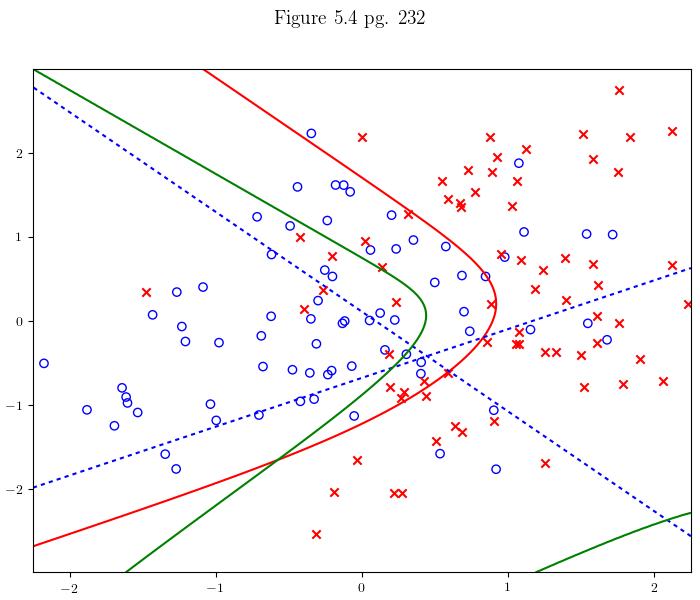
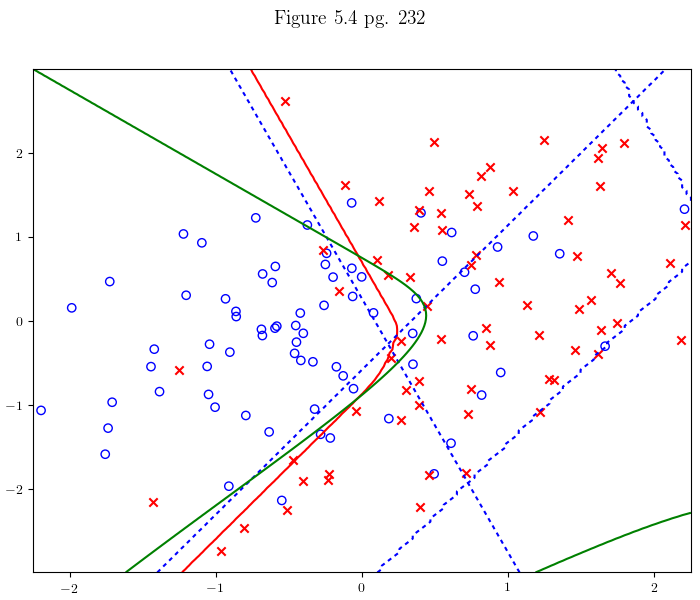
Figure 5.3 Added and 5.4 Update
-Added polynomial fitting NN example
-Updated classification example (5.4)  to include sigmoid output functions and use PyTorch's cross entropy loss function.
-Figure updates
-Minor documentation update for figure 5.21

diff --git a/Chp5/fig5-3.py b/Chp5/fig5-3.py
@@ -1,7 +1,7 @@
 '''
 Nicholas Geneva
 ngeneva@nd.edu
-August 11, 2017
+August 25, 2017
 '''
 import sys
 
@@ -28,7 +28,6 @@ class BabyNet(th.nn.Module):
         self.linear1 = th.nn.Linear(D_in, H)
         self.f1 = th.nn.Tanh()
         self.linear2 = th.nn.Linear(H, D_out)
-        self.f2 = th.nn.Sigmoid()
 
     def forward(self, x):
         """
@@ -39,7 +38,7 @@ class BabyNet(th.nn.Module):
             out (th.DoubleTensor): [N x D_out] matrix of neural network outputs
         """
         lin1 = self.f1(self.linear1(x))
-        out = self.f2(self.linear2(lin1))
+        out = self.linear2(lin1)
         return out
 
     def hiddenForward(self, x):
@@ -70,9 +69,7 @@ class simpleNN():
 
         self.H = H
         self.lr = learning_rate
-        #Input: (N,C) where C = number of classes
-        #Target: Long(N) where each value is 0 <= targets[i] <= C-1
-        self.loss_fn = th.nn.CrossEntropyLoss(size_average=False)
+        self.loss_fn = th.nn.MSELoss(size_average=False)
     
     def trainNN(self, x_train, y_train, err_limit):
         """
@@ -97,7 +94,7 @@ class simpleNN():
             y_pred = self.model(x_t) #__call__()
 
             #Now lets compute out loss
-            loss = self.loss_fn(y_pred, y_t.long())
+            loss = self.loss_fn(y_pred, y_t)
             err = loss.data
             print(idx,err)
 
@@ -156,66 +153,32 @@ class simpleNN():
         loss = self.loss_fn(t_pred, t_test)
         return loss
 
-def generate2ClassData(N):
-    """Generates a set of synthetic data classification data discribed in Appendix A
+def generateTrainingData(N, std, func='para'):
+    """Generates a set of training data for several abitrary functions
     Args:
         N (Int) = Number of points in each class
+        std (Int) = standard deviation of the Y noise added to the data
+        func (String) = training function of choice (parabolic, sine, etc.)
     Returns:
-        X (th.DoubleTensor) = [2*N x 2] matrix of X and Y coords of target points
-        T (th.DoubleTensor) = [2*N x 2] matrix of binary classification target vectors
+        X (th.DoubleTensor) = [N] matrix of X and Y coords of target points
+        T (th.DoubleTensor) = [N] matrix of binary classification target vectors
     """
-    X_data = th.DoubleTensor(2*N, 2)
-    T_data = th.DoubleTensor(2*N, 2).zero_()
-
-    #Generate class 1 coordinates
-    mean = [-.25, 0]
-    covar = [[1.0, 1.0], [0, 1.0]] #variance
-    X_data[:N,:] = th.FloatTensor(np.random.multivariate_normal(mean, covar, N))
-
-    #Generate class 2 coordinates
-    mean = [1.0, -0.75]
-    covar = [[1, .8], [.8, 1]]  # diagonal covariance
-    mean2 = [1.0, 1]
-    covar2 = [[1.0, 1.0], [0, 1.0]]  # diagonal covariance
-    n = int(np.random.normal(N/2.0,5)) #Number of points from guassian 1
-    X_data[N:N+n,:] = th.FloatTensor(np.random.multivariate_normal(mean, covar, n))
-    X_data[N+n:,:] = th.FloatTensor(np.random.multivariate_normal(mean2, covar2, N-n))
-
-    #Target vector creation
-    T_data[:N, 0] = 1
-    T_data[N:, 1] = 1
+    X_data = th.linspace(-1,1,N).unsqueeze(1).type(th.DoubleTensor)
+    if(func == 'para'):
+        mu = X_data.pow(2)
+    elif(func == 'sine'):
+        mu = th.sin(np.pi*X_data)
+    elif(func == 'abs'):
+        mu = th.abs(X_data)
+    else:
+        mu = X_data > 0
+    
+    if(std > 0):
+        T_data = th.normal(mu,std).type(th.DoubleTensor)
+    else:
+        T_data = mu.type(th.DoubleTensor)
 
     return X_data, T_data
-
-def plotIdealFit(ax, xlim, ylim):
-    """Generates a set of synthetic data classification data discribed in Appendix A
-    Args:
-        N (Int) = Number of points in each class
-    Returns:
-        X (th.DoubleTensor) = [2*N x 2] matrix of X and Y coords of target points
-        T (th.DoubleTensor) = [2*N x 2] matrix of binary classification target vectors
-    """
-    x = np.linspace(xlim[0],xlim[1],150)
-    y = np.linspace(ylim[0],ylim[1],150)
-    X, Y = np.meshgrid(x, y)
-    Z = np.zeros(X.shape)
-    #Class 1
-    mean0 = [-.25, 0]
-    cov0 = [[1.0, 1.0], [0, 1.0]]
-    #Class 2
-    mean = [1.0, -0.75]
-    cov = [[1, .8], [.8, 1]]
-    mean2 = [0.75, 1]
-    cov2 = [[1.0, 1.0], [0, 1.0]]
-    
-    for (i,j), val in np.ndenumerate(X):
-        x = np.array([[X[i,j], Y[i,j]]])
-        Z[i,j] = -5*np.exp(-0.5*(x-mean0).dot(inv(cov0)).dot((x-mean0).T)) + \
-            5*np.exp(-0.5*(x-mean).dot(inv(cov)).dot((x-mean).T)) + \
-            5*np.exp(-0.5*(x-mean2).dot(inv(cov2)).dot((x-mean2).T))
-
-    #ax.contourf(X, Y, Z, 10)
-    ax.contour(X, Y, Z, levels = [-5,0,5], colors='g', linewidth=0.5)
 
 if __name__ == '__main__':
     plt.close('all')
@@ -223,63 +186,86 @@ if __name__ == '__main__':
     rc('text', usetex=True)
 
     #Set up subplots
-    f, ax = plt.subplots(1, 1, figsize=(7, 6))
-    f.suptitle('Figure 5.4 pg. 232', fontsize=14)
+    f, ax = plt.subplots(2, 2, figsize=(7, 6))
+    f.suptitle('Figure 5.3 pg. 231', fontsize=14)
     xlim, ylim = [-2.25,2.25], [-3,3]
 
-    N = 75 #Number of points in each class
-    X_train, T_train = generate2ClassData(N)
-    lr, err = 1e-1, 1e-5 #learning rate, error threshold
+    N = 50 #Number of points in each class
+    lr, err = 5e-4, 1e-6 #learning rate, error threshold
     
-    sNN = simpleNN(2, 2, 2, lr)
-    sNN.trainNN(X_train, T_train[:,0], err)
+    #Parabolic function
+    X_train, T_train = generateTrainingData(N,0,func='para')
+    X_test, T_test = generateTrainingData(100,0,func='para')
+    sNN = simpleNN(1, 3, 1, lr)
+    sNN.trainNN(X_train, T_train, err)
 
-    x = np.linspace(xlim[0],xlim[1],150)
-    y = np.linspace(ylim[0],ylim[1],150)
-    X, Y = np.meshgrid(x, y)
-    Z = np.zeros((3,X.shape[0],X.shape[1]))
+    y_pred = sNN.getTPred(X_test)
+    y_hidden = sNN.getHiddenUnits(X_test)
+    ax[0,0].plot(Variable(X_test).data.numpy(), y_pred.data.numpy(), '-r')
+    ax[0,0].scatter(Variable(X_train).data.numpy(), Variable(T_train).data.numpy(), c='b', marker='.')
+    ax[0,0].set_ylim([-0.1,1.1])
+    ax[0,0].set_title(r'$f(x)=x^{2}$')
+    #Plot hidden units on different Y-scale
+    ax0 = ax[0,0].twinx()
+    ax0.plot(Variable(X_test.expand(X_test.size(0),3)).data.numpy(), y_hidden.data.numpy(),ls='--')
+    ax0.set_yticks([])
 
-    for (i,j), val in np.ndenumerate(X):
-        x_test = th.DoubleTensor([[X[i,j], Y[i,j]]])
-        y_pred = sNN.getTPred(x_test).data[0].numpy()
-        
-        prob = y_pred[0]*(1-y_pred[1]) #Eq. 5.22 (not the most robust but it works)
-        Z[0,i,j] = prob
-        Z[1:,i,j] = sNN.getHiddenUnits(x_test).data.numpy() #Get hidden units for hidden unit boundaries
+    #Sine function
+    X_train, T_train = generateTrainingData(N,0,func='sine')
+    X_test, T_test = generateTrainingData(100,0,func='sine')
+    sNN = simpleNN(1, 3, 1, lr)
+    sNN.trainNN(X_train, T_train, err)
 
-    sNN.getHiddenUnits(x_test)
-    #Plot decision surface boundary
-    ax.contour(X, Y, Z[0], levels = [-3.0,0.5,3.0], colors='r', linewidth=0.5)
-    #Plot hidden activation function surface boundaries
-    CS = ax.contour(X, Y, Z[1], levels = [-1.0,0.5,2.0], colors='b', linewidth=0.25)
-    for c in CS.collections:
-        c.set_dashes([(0, (2.0, 2.0))])  
-    CS = ax.contour(X, Y, Z[2], levels = [-1.0,0.5,2.0], colors='b', linewidth=0.25)
-    for c in CS.collections:
-        c.set_dashes([(0, (2.0, 2.0))])
+    y_pred = sNN.getTPred(X_test)
+    y_hidden = sNN.getHiddenUnits(X_test)
+    ax[0,1].plot(Variable(X_test).data.numpy(), y_pred.data.numpy(), '-r')
+    ax[0,1].scatter(Variable(X_train).data.numpy(), Variable(T_train).data.numpy(), c='b', marker='.')
+    ax[0,1].set_ylim([-1.1,1.1])
+    ax[0,1].set_title(r'$f(x)=sin(x)$')
+    #Plot hidden units on different Y-scale
+    ax0 = ax[0,1].twinx()
+    ax0.plot(Variable(X_test.expand(X_test.size(0),3)).data.numpy(), y_hidden.data.numpy(),ls='--')
+    ax0.set_yticks([])
 
-    #Seperate out classes for plotting
-    X0 = np.zeros((N,2))
-    Y0 = np.zeros((N,2))
-    c1 = 0
-    for i in range(X_train.size(0)):
-        if(T_train[i,0] == 1): #Class 1
-            X0[c1, 0] = X_train[i,0]
-            Y0[c1, 0] = X_train[i,1]
-            c1 = c1 + 1
-        else: #Class 2
-            X0[i-c1, 1] = X_train[i,0]
-            Y0[i-c1, 1] = X_train[i,1]
+    #Abs function
+    X_train, T_train = generateTrainingData(N,0,func='abs')
+    X_test, T_test = generateTrainingData(100,0,func='abs')
+    sNN = simpleNN(1, 3, 1, lr)
+    sNN.trainNN(X_train, T_train, err)
 
-    ax.scatter(X0[:,0], Y0[:,0], marker='o', facecolors='none', edgecolors='b')
-    ax.scatter(X0[:,1], Y0[:,1], c='r', marker='x')
-    plotIdealFit(ax, xlim, ylim)
+    y_pred = sNN.getTPred(X_test)
+    y_hidden = sNN.getHiddenUnits(X_test)
+    ax[1,0].plot(Variable(X_test).data.numpy(), y_pred.data.numpy(), '-r')
+    ax[1,0].scatter(Variable(X_train).data.numpy(), Variable(T_train).data.numpy(), c='b', marker='.')
+    ax[1,0].set_ylim([-0.1,1.1])
+    ax[1,0].set_title(r'$f(x)=\left| x \right|$')
+    #Plot hidden units on different Y-scale
+    ax0 = ax[1,0].twinx()
+    ax0.plot(Variable(X_test.expand(X_test.size(0),3)).data.numpy(), y_hidden.data.numpy(),ls='--')
+    ax0.set_yticks([])
+
+    #Heaviside function
+    X_train, T_train = generateTrainingData(N,0,func='heavy')
+    X_test, T_test = generateTrainingData(100,0,func='heavy')
+    sNN = simpleNN(1, 3, 1, lr)
+    sNN.trainNN(X_train, T_train, err)
+
+    y_pred = sNN.getTPred(X_test)
+    y_hidden = sNN.getHiddenUnits(X_test)
+    ax[1,1].plot(Variable(X_test).data.numpy(), y_pred.data.numpy(), '-r')
+    ax[1,1].scatter(Variable(X_train).data.numpy(), Variable(T_train).data.numpy(), c='b', marker='.')
+    ax[1,1].set_ylim([-0.1,1.1])
+    ax[1,1].set_title(r'$f(x)=H(x)$')
+    #Plot hidden units on different Y-scale
+    ax0 = ax[1,1].twinx()
+    ax0.plot(Variable(X_test.expand(X_test.size(0),3)).data.numpy(), y_hidden.data.numpy(),ls='--')
+    ax0.set_yticks([])
+
+    for (i,j), ax0 in np.ndenumerate(ax):
+        ax0.set_xlim([-1.05,1.05])
+        ax0.set_xticks([]) 
+        ax0.set_yticks([]) 
     
-    ax.set_xlim(xlim)
-    ax.set_xticks([-2, -1, 0, 1, 2]) 
-    ax.set_ylim(ylim)
-    ax.set_yticks([-2, -1, 0, 1, 2])
-
     plt.tight_layout(pad=0.4, w_pad=0.5, h_pad=0.5, rect=[0,0, 1, 0.9])
-    #plt.savefig('Figure5_04.png')
+    #plt.savefig('Figure5_03.png')
     plt.show()

diff --git a/Chp5/fig5-21.py b/Chp5/fig5-21.py
@@ -59,7 +59,16 @@ class MixDensity(Function):
 
     # Note that both forward and backward are @staticmethods
     def forward(self, a_pi, a_mu, a_sigma, t):
-        #Save inputs for backward prop
+        """
+        Calculates the forward pass of the loss function (Bishop Eq.5.153)
+        Args:
+            a_pi (Variable): [K x N] softmax outputs used to calculate the mixture params 
+            a_mu (Variable): [K x N] mean outputs from NN
+            a_sigma (Variable): [K x N] ln(std) outputs from NN
+            t (Variable): [N] training set
+        Returns:
+            loss (Variable): output of loss function
+        """
         self.save_for_backward(a_pi, a_mu, a_sigma, t)
         K = a_pi.size(1) #Number of components in mixture
         losses = th.zeros(K,t.size(0)).type(dtype)
@@ -186,25 +195,6 @@ class simpleNN():
             # loss3 = (1.0/th.pow(2.0*np.pi*var[:,2],0.5))*th.exp(-0.5*th.pow(y_t-y_pred[:,5], 2)/var[:,2])
 
             # loss = -th.sum(th.log(p1*loss1 + p2*loss2 + p3*loss3),0)
-
-            # print(loss, lossx)
-            # gamma0 = p1*loss1 + p2*loss2 + p3*loss3
-            # gamma1 = p1*loss1/gamma0
-            # gamma2 = p2*loss2/gamma0
-            # gamma3 = p3*loss3/gamma0
-
-            # grads = Variable(th.zeros(9,5).type(dtype))
-            # grads[0,:] = th.sum(hidden[:,:]*(p1 - gamma1),1)
-            # grads[1,:] = th.sum(hidden[:,:]*(p2 - gamma2),1) 
-            # grads[2,:] = th.sum(hidden[:,:]*(p3 - gamma3),1)
-
-            # grads[3,:] = th.sum(hidden[:,:]*(gamma1*(y_pred[:,3]-y_t)/var[:,0]),1)
-            # grads[4,:] = th.sum(hidden[:,:]*(gamma2*(y_pred[:,4]-y_t)/var[:,1]),1)
-            # grads[5,:] = th.sum(hidden[:,:]*(gamma3*(y_pred[:,5]-y_t)/var[:,2]),1)
-
-            # grads[6,:] = th.sum(hidden[:,:]*gamma1*(1 - th.pow(y_t - y_pred[:,3], 2)/var[:,0]),1)
-            # grads[7,:] = th.sum(hidden[:,:]*gamma2*(1 - th.pow(y_t - y_pred[:,4], 2)/var[:,1]),1)
-            # grads[8,:] = th.sum(hidden[:,:]*gamma3*(1 - th.pow(y_t - y_pred[:,5], 2)/var[:,2]),1)
             
             #Now lets compute out loss
             # err = loss.data
